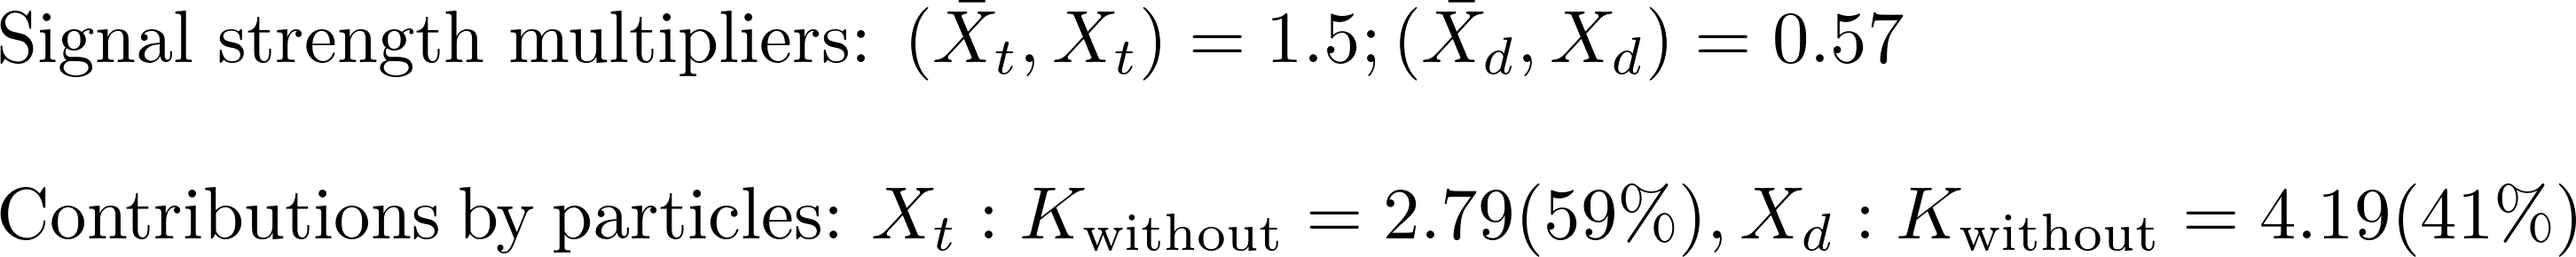
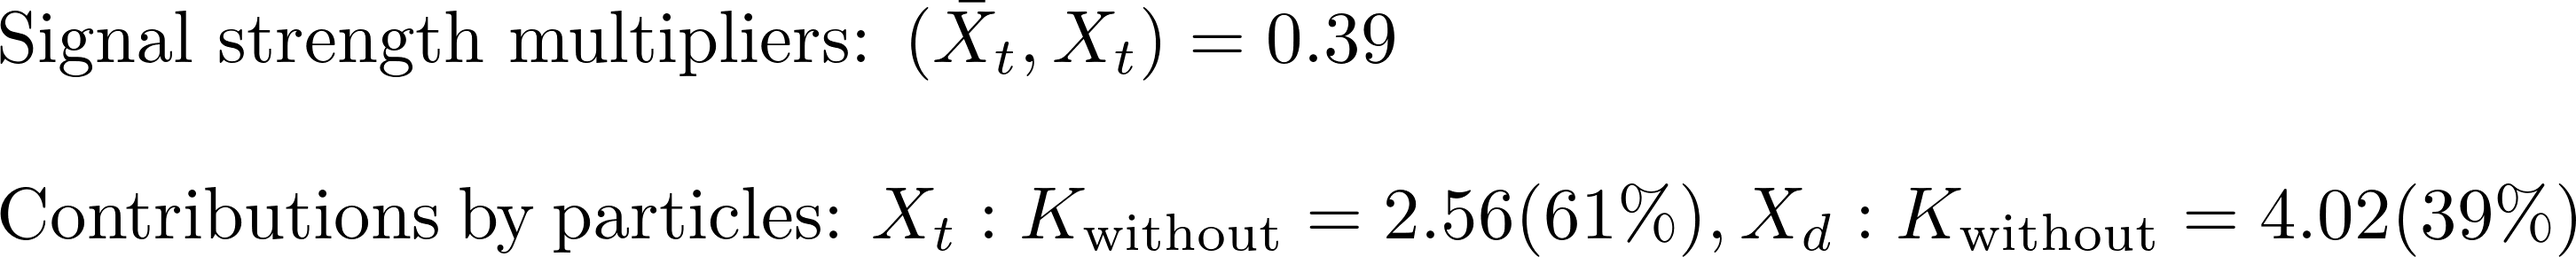
automated update by plotHiscore.py to /scratch-cbe/users/wolfgan.waltenberger/git/smodels.github.io/protomodels

Changed region(s): [[0.4959, 0.0, 0.7438, 0.3103], [0.8988, 0.7448, 0.9917, 0.931], [0.5579, 0.7448, 0.6508, 0.931]]

diff --git a/protomodels/2020_PioneerStudy/real10/index.html b/protomodels/2020_PioneerStudy/real10/index.html
@@ -1,30 +1,31 @@
 <html>
 <body>
 <center>
-<table><td><h1>Current best protomodel: K=7.35</h1><td><img height=60px src=https://smodels.github.io/pics/banner.png></table>
+<table><td><h1>Current best protomodel: K=6.73</h1><td><img height=60px src=https://smodels.github.io/pics/banner.png></table>
 </center>
-<b><a href=./hiscore.slha>ProtoModel</a> <a href=./pmodel.py>(dict)</a> produced with <a href=https://smodels.github.io/docs/Validation124>database v1.2.4</a>, combination strategy <a href=./matrix_aggressive.png>aggressive</a> in walker 18 step 316.</b> K plots for: <a href=./M1000022.png?14864802>X<sub>Z</sub><sup>1</sup></a>, <a href=./M1000006.png?14864802>X<sub>t</sub></a>, <a href=./M1000001.png?14864802>X<sub>d</sub></a>. HPD plots for: <a href=./llhd1000006.png?14864802>X<sub>t</sub></a>, <a href=./llhd1000001.png?14864802>X<sub>d</sub></a>. SSM plots for: <a href=./ssm_-1000006_1000006.png?14864802>(x&#772;<sub>t</sub>,X<sub>t</sub>)</a><br>
+<b><a href=./hiscore.slha>ProtoModel</a> <a href=./pmodel.py>(dict)</a> produced with <a href=https://smodels.github.io/docs/Validation????>database v????</a>, combination strategy <a href=./matrix_aggressive.png>aggressive</a> in walker 0 step 485.</b> K plots for: <a href=./M1000022.png?14865035>X<sub>Z</sub><sup>1</sup></a>, <a href=./M1000001.png?14865035>X<sub>d</sub></a>, <a href=./M1000006.png?14865035>X<sub>t</sub></a>. HPD plots for: <a href=./llhd1000001.png?14865035>X<sub>d</sub></a>, <a href=./llhd1000006.png?14865035>X<sub>t</sub></a>. SSM plots for: <a href=./ssm_-1000006_1000006.png?14865035>(x&#772;<sub>t</sub>,X<sub>t</sub>)</a><br>
 <table width=80%>
 <tr><td>
-<br><b>19 predictions available. Highest r values are:</b><br><ul>
-<li><a href=http://cms-results.web.cern.ch/cms-results/public-results/publications/SUS-19-006/index.html>CMS-SUS-19-006</a>:T2 r=1.30, r<sub>exp</sub>=1.11<br>
-<li><a href=http://cms-results.web.cern.ch/cms-results/public-results/publications/SUS-19-006/index.html>CMS-SUS-19-006</a>:T2tt r=1.23, r<sub>exp</sub>=1.22<br>
-<li><a href=http://cms-results.web.cern.ch/cms-results/public-results/publications/SUS-16-033/index.html>CMS-SUS-16-033</a>:T2 r=1.20, r<sub>exp</sub>=0.84<br>
-<li><a href=http://cms-results.web.cern.ch/cms-results/public-results/publications/SUS-16-036/index.html>CMS-SUS-16-036</a>:T2 r=0.88, r<sub>exp</sub>=0.76<br>
-<li><a href=http://cms-results.web.cern.ch/cms-results/public-results/publications/SUS-16-049/index.html>CMS-SUS-16-049</a>:T2tt r=0.61, r<sub>exp</sub>=0.97<br>
+<br><b>35 predictions available. Highest r values are:</b><br><ul>
+<li><a href=http://cms-results.web.cern.ch/cms-results/public-results/publications/SUS-19-006/index.html>CMS-SUS-19-006</a>:T2tt r=1.30, r<sub>exp</sub>=0.86<br>
+<li><a href=http://cms-results.web.cern.ch/cms-results/public-results/publications/SUS-16-033/index.html>CMS-SUS-16-033</a>:T2 r=1.25, r<sub>exp</sub>=0.81<br>
+<li><a href=http://cms-results.web.cern.ch/cms-results/public-results/publications/SUS-19-006/index.html>CMS-SUS-19-006</a>:T2 r=1.20, r<sub>exp</sub>=1.06<br>
+<li><a href=http://cms-results.web.cern.ch/cms-results/public-results/publications/SUS-16-036/index.html>CMS-SUS-16-036</a>:T2 r=0.94, r<sub>exp</sub>=0.71<br>
+<li><a href=http://cms-results.web.cern.ch/cms-results/public-results/publications/SUS-16-049/index.html>CMS-SUS-16-049</a>:T2tt r=0.94, r<sub>exp</sub>=0.89<br>
 </ul>
 <td><br><b>K values without analyses: (contribution)</b><br>
 <ul>
-<li> <a href=http://cms-results.web.cern.ch/cms-results/public-results/publications/SUS-16-050/index.html>CMS-SUS-16-050</a>: 3.35 (15%)
-<li> <a href=https://twiki.cern.ch/twiki/bin/view/CMSPublic/PhysicsResultsSUS13012>CMS-SUS-13-012</a>: 3.35 (15%)
-<li> <a href=https://atlas.web.cern.ch/Atlas/GROUPS/PHYSICS/PAPERS/SUSY-2013-02/>ATLAS-SUSY-2013-02</a>: 3.28 (15%)
-<li> <a href=https://atlas.web.cern.ch/Atlas/GROUPS/PHYSICS/PAPERS/SUSY-2016-16/>ATLAS-SUSY-2016-16</a>: 1.25 (23%)
-<li> <a href=https://atlas.web.cern.ch/Atlas/GROUPS/PHYSICS/PAPERS/SUSY-2016-07/>ATLAS-SUSY-2016-07</a>: -0.75 (31%)
-<td><img width=600px src=./texdoc.png?1607864802>
-<br><font size=-1>Last updated: Sun Dec 13 14:06:42 2020</font>
+<li> <a href=http://cms-results.web.cern.ch/cms-results/public-results/publications/SUS-16-050/index.html>CMS-SUS-16-050</a>: 6.10 (5%)
+<li> <a href=https://twiki.cern.ch/twiki/bin/view/CMSPublic/PhysicsResultsSUS13012>CMS-SUS-13-012</a>: 6.10 (5%)
+<li> <a href=https://atlas.web.cern.ch/Atlas/GROUPS/PHYSICS/PAPERS/SUSY-2013-02/>ATLAS-SUSY-2013-02</a>: 5.99 (6%)
+<li> <a href=https://atlas.web.cern.ch/Atlas/GROUPS/PHYSICS/PAPERS/SUSY-2013-15/>ATLAS-SUSY-2013-15</a>: 5.45 (10%)
+<li> <a href=https://atlas.web.cern.ch/Atlas/GROUPS/PHYSICS/PAPERS/SUSY-2016-07/>ATLAS-SUSY-2016-07</a>: 2.22 (36%)
+<li> <a href=http://atlas.web.cern.ch/Atlas/GROUPS/PHYSICS/PAPERS/SUSY-2015-02/>ATLAS-SUSY-2015-02</a>: 1.83 (39%)
+<td><img width=600px src=./texdoc.png?1607865035>
+<br><font size=-1>Last updated: Sun Dec 13 14:10:35 2020</font>
 </table><table style="width:80%">
-<td width=45%><img height=580px src=./ruler.png?1607864802><td width=55%><img height=380px src=./decays.png?1607864802>
-<font size=-3><iframe type="text/html" height="220px" width="100%s" frameborder="0" src="./rawnumbers.html?1607864802"></iframe></font>
+<td width=45%><img height=580px src=./ruler.png?1607865035><td width=55%><img height=380px src=./decays.png?1607865035>
+<font size=-3><iframe type="text/html" height="220px" width="100%s" frameborder="0" src="./rawnumbers.html?1607865035"></iframe></font>
 </table>
 </body>
 </html>

diff --git a/protomodels/2020_PioneerStudy/real10/rawnumbers.html b/protomodels/2020_PioneerStudy/real10/rawnumbers.html
@@ -2,8 +2,9 @@
 <tr><th>Analysis Name</th><th>Type</th><th>Dataset</th><th>Topos</th><th>Observed</th><th>Expected</th><th>Approx &sigma;</th><th>Particles</th>
 </tr>
 <tr><td><a href=https://atlas.web.cern.ch/Atlas/GROUPS/PHYSICS/PAPERS/SUSY-2013-02/>ATLAS-SUSY-2013-02</a></td><td>em</td> <td>SR6jtp</td><td>T2</td><td>6</td><td>4.9 +/- 1.6</td><td style="text-align:right">0.4 &sigma;</td><td style="text-align:right">X<sub>d</sub></td></tr>
+<tr><td><a href=https://atlas.web.cern.ch/Atlas/GROUPS/PHYSICS/PAPERS/SUSY-2013-15/>ATLAS-SUSY-2013-15</a></td><td>em</td> <td>tNboost</td><td>T2tt</td><td>5</td><td>3.3 +/- 0.7</td><td style="text-align:right">0.9 &sigma;</td><td style="text-align:right">X<sub>t</sub></td></tr>
+<tr><td><a href=http://atlas.web.cern.ch/Atlas/GROUPS/PHYSICS/PAPERS/SUSY-2015-02/>ATLAS-SUSY-2015-02</a></td><td>em</td> <td>SR1</td><td>T2tt</td><td>12</td><td>5.5 +/- 0.72</td><td style="text-align:right">2.6 &sigma;</td><td style="text-align:right">X<sub>t</sub></td></tr>
 <tr><td><a href=https://atlas.web.cern.ch/Atlas/GROUPS/PHYSICS/PAPERS/SUSY-2016-07/>ATLAS-SUSY-2016-07</a></td><td>em</td> <td>2j_Meff_1200</td><td>T2</td><td>611</td><td>526 +/- 31</td><td style="text-align:right">2.2 &sigma;</td><td style="text-align:right">X<sub>d</sub></td></tr>
-<tr><td><a href=https://atlas.web.cern.ch/Atlas/GROUPS/PHYSICS/PAPERS/SUSY-2016-16/>ATLAS-SUSY-2016-16</a></td><td>em</td> <td>tN_high</td><td>T2tt</td><td>8</td><td>3.8 +/- 1</td><td style="text-align:right">1.9 &sigma;</td><td style="text-align:right">X<sub>t</sub></td></tr>
-<tr><td><a href=https://twiki.cern.ch/twiki/bin/view/CMSPublic/PhysicsResultsSUS13012>CMS-SUS-13-012</a></td><td>ul</td> <td>-</td><td>T2</td><td> 27.4 fb </td><td> 16.6 fb</td><td style="text-align:right">1.3 &sigma;</td><td style="text-align:right">X<sub>d</sub></td></tr>
-<tr><td><a href=http://cms-results.web.cern.ch/cms-results/public-results/publications/SUS-16-050/index.html>CMS-SUS-16-050</a></td><td>ul</td> <td>-</td><td>T2tt</td><td> 4.4 fb </td><td> 2.4 fb</td><td style="text-align:right">1.6 &sigma;</td><td style="text-align:right">X<sub>t</sub></td></tr>
+<tr><td><a href=https://twiki.cern.ch/twiki/bin/view/CMSPublic/PhysicsResultsSUS13012>CMS-SUS-13-012</a></td><td>ul</td> <td>-</td><td>T2</td><td> 47.5 fb </td><td> 29.2 fb</td><td style="text-align:right">1.2 &sigma;</td><td style="text-align:right">X<sub>d</sub></td></tr>
+<tr><td><a href=http://cms-results.web.cern.ch/cms-results/public-results/publications/SUS-16-050/index.html>CMS-SUS-16-050</a></td><td>ul</td> <td>-</td><td>T2tt</td><td> 80.5 fb </td><td> 44.7 fb</td><td style="text-align:right">1.6 &sigma;</td><td style="text-align:right">X<sub>t</sub></td></tr>
 </table>

diff --git a/protomodels/2020_PioneerStudy/real10/pmodel.py b/protomodels/2020_PioneerStudy/real10/pmodel.py
@@ -1,1 +1,1 @@
-{'masses': {1000022: 198.937, 1000001: 769.08, 1000006: 1202.452}, 'ssmultipliers': {(1000022, 1000022): 0.0, (1000001, 1000001): 0.0, (-1000001, 1000001): 0.572, (-1000001, -1000001): 0.572, (1000001, 1000022): 0.0, (-1000001, 1000022): 0.0, (1000006, 1000006): 1.265, (-1000006, 1000006): 1.532, (-1000006, -1000006): 1.276, (1000006, 1000022): 1.265, (-1000006, 1000022): 1.265, (1000001, 1000006): 1.522, (-1000006, 1000001): 1.107, (-1000001, 1000006): 1.44, (-1000006, -1000001): 1.44}, 'decays': {1000022: {}, 1000001: {(1000022, 1): 1.0}, 1000006: {(1000022, 6): 1.0}}, 'timestamp': 'Sun Dec 13 14:06:31 2020', 'Z': 3.293, 'K': 7.346, 'walkerid': 18, 'step': 316, 'codever': '1.0', 'dbver': '1.2.4'}
+{'masses': {1000022: 357.992, 1000006: 691.35, 1000001: 791.848}, 'ssmultipliers': {(1000022, 1000022): 0.0, (1000006, 1000006): 0.152, (-1000006, 1000006): 0.39, (-1000006, -1000006): 0.152, (1000006, 1000022): 0.152, (-1000006, 1000022): 0.152, (1000001, 1000001): 1.0, (-1000001, 1000001): 1.0, (-1000001, -1000001): 1.0, (1000001, 1000022): 1.0, (-1000001, 1000022): 1.0, (1000001, 1000006): 1.0, (-1000001, 1000006): 1.0, (-1000006, 1000001): 1.0, (-1000006, -1000001): 1.0}, 'decays': {1000022: {}, 1000006: {(1000022, 6): 1.0}, 1000001: {(1000022, 1): 1.0}}, 'timestamp': 'Sun Dec 13 14:10:27 2020', 'Z': 3.206, 'K': 6.73, 'walkerid': 0, 'step': 485, 'codever': '1.0', 'dbver': '????'}
